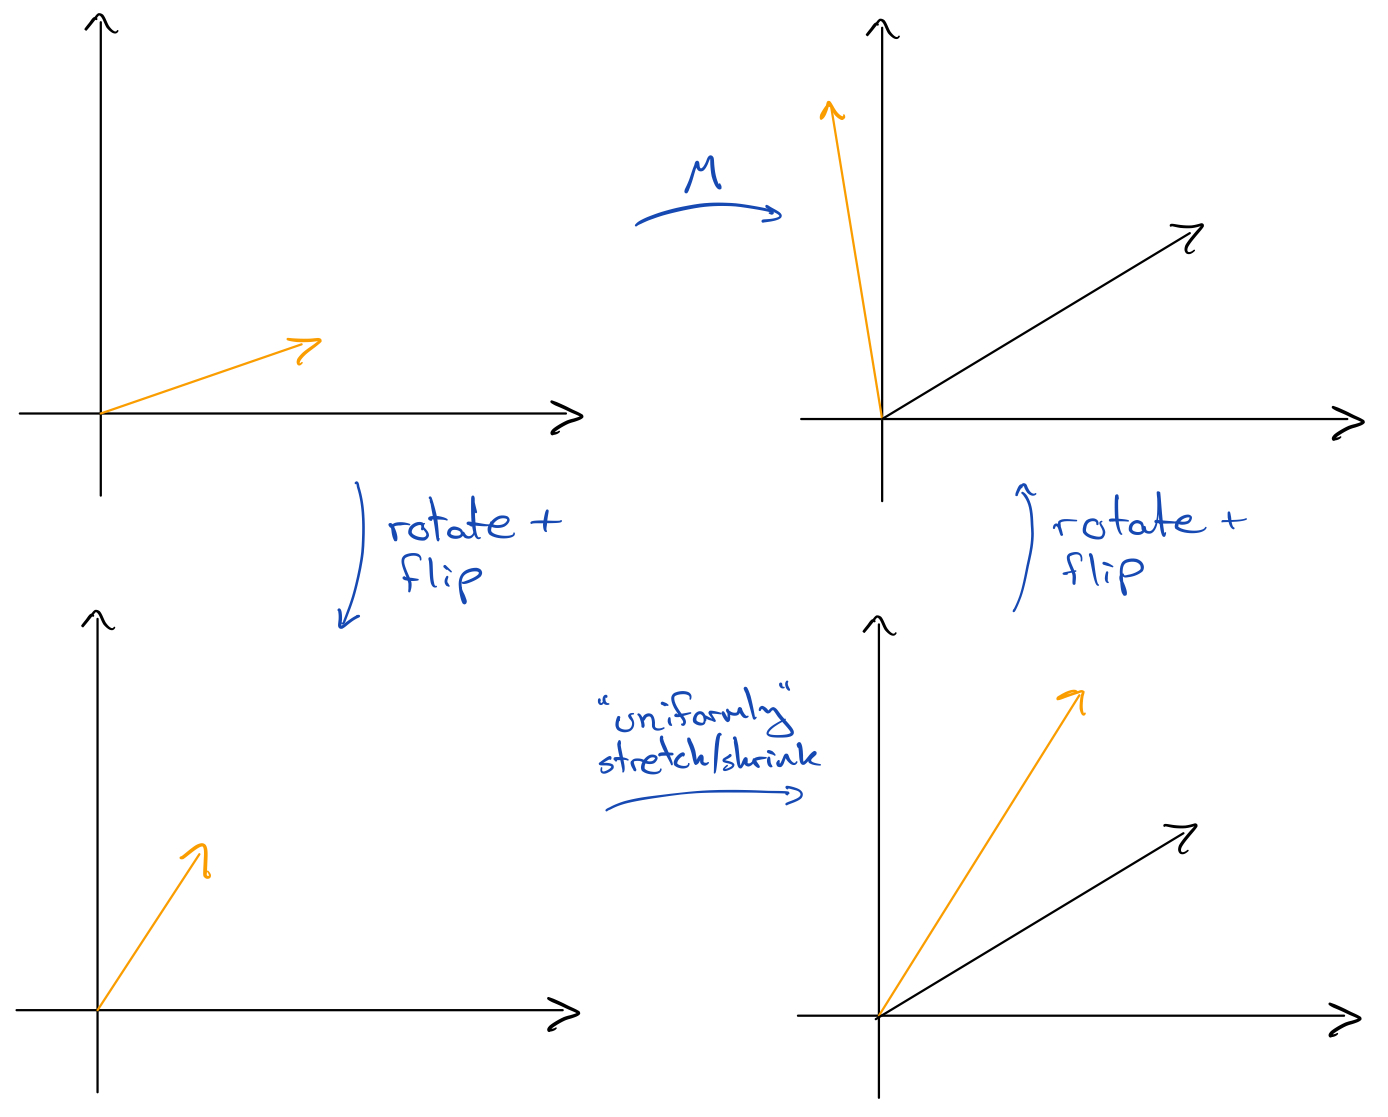
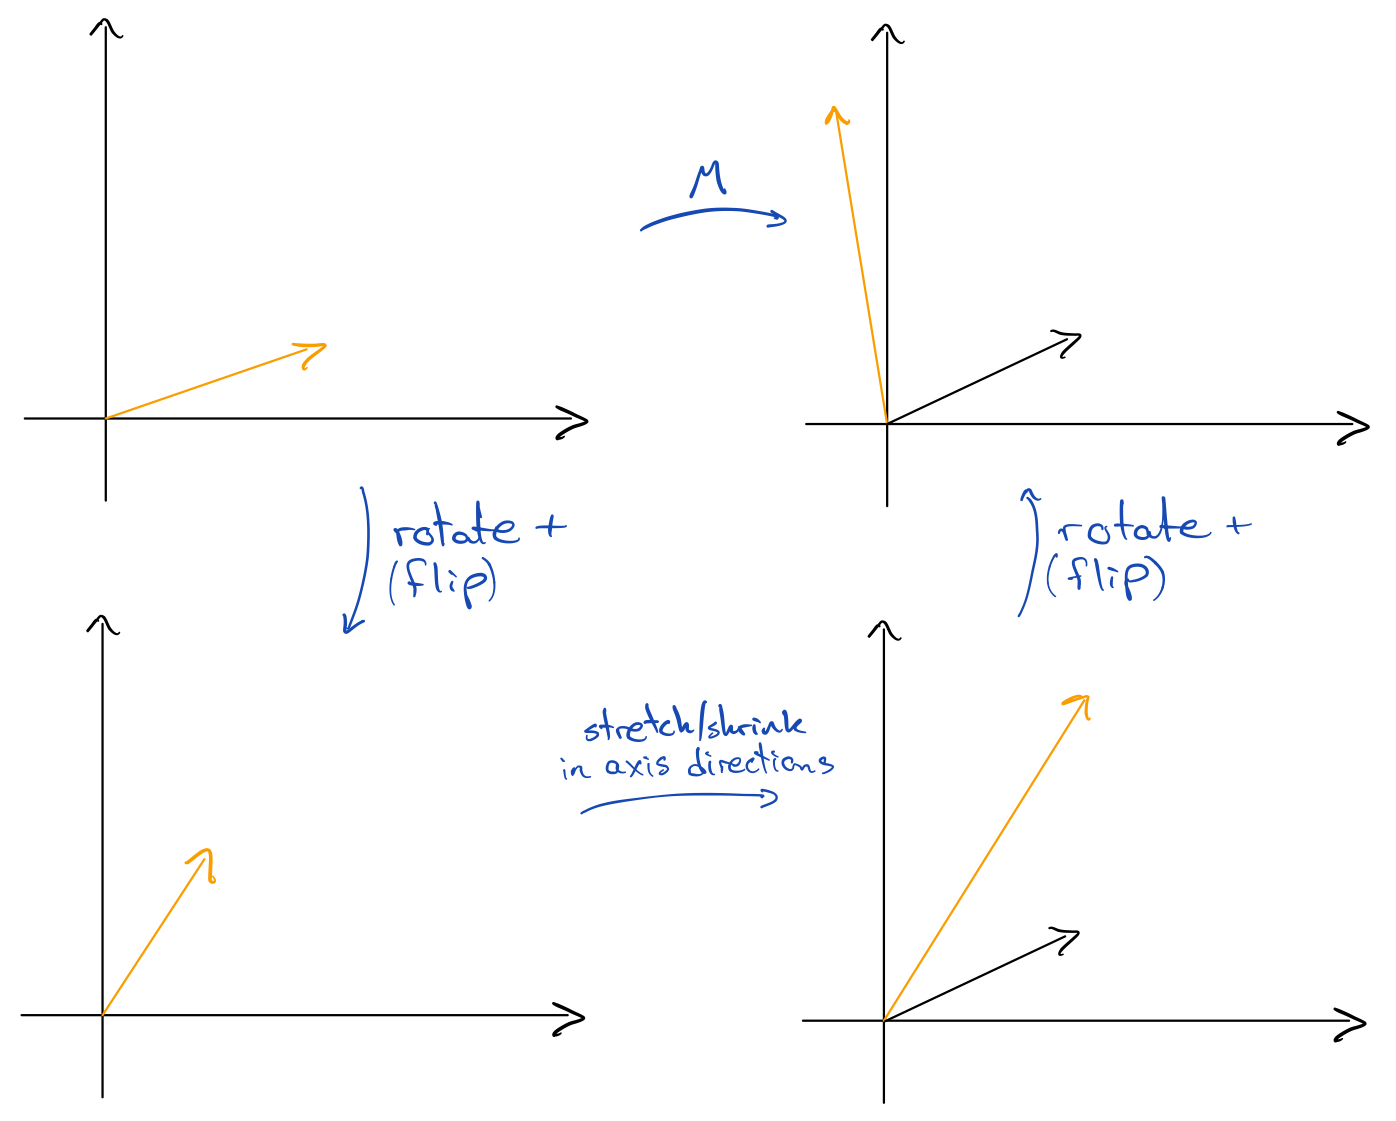
fixed a scaling mistake

diff --git a/_posts/2019-06-12-singular-value-decomposition-in-pictures.md b/_posts/2019-06-12-singular-value-decomposition-in-pictures.md
@@ -27,7 +27,7 @@ To apply the aforementioned idea of breaking into smaller pieces, a way of simpl
 
 The first decomposition that we'll look at, the **eigendecomposition**, does this by isolating a collection of special vectors which are *not rotated* and *stretched/shrunk the same amount in all directions*: our transformation only potentially flips and "uniformly" stretches/shrinks these special ones. Of course this comes with its own cryptic terminology: these special vectors are called **eigenvectors**, and the amount that they are uniformly stretched/shrunk are the **eigenvalues**.
 
-The decomposition then first rotates and potentially flips a given vector, then uniformly stretches/shrinks it and potentially flips it, and rotates and potentially flips it back again:
+The decomposition then first rotates and potentially flips a given vector, then stretches/shrinks it in the axis directions and potentially flips it, and rotates and potentially flips it back again:
 
 {: style="text-align:center"}
 ![eigendecomposition](../img/eigendecomposition.jpg)
@@ -41,22 +41,22 @@ A transformation is **symmetric** if applying it twice cancels out all rotations
 {: style="text-align:center"}
 ![symmetric transformation](../img/symmetric.jpg)
 
-Next, a symmetric transformation is **positive semi-definite** if no vector is flipped. As it's also symmetric this means that any vector which is rotated will have to be rotated back to its starting position after applying the transformation again. In two dimensions this reduces to only allowing scaling. This is still more general than a diagonal transformation however, as we allow scaling in directions different from the axis directions, causing skewness:
+Next, a symmetric transformation is **positive semi-definite** if no vector is flipped. As it's also symmetric this means that any vector which is rotated will have to be rotated back to its starting position after applying the transformation again. In two dimensions this reduces to only allowing stretching/shrinking. This is still more general than a diagonal transformation however, as we allow stretching/shrinking in directions different from the axis directions, causing skewness:
 
 {: style="text-align:center"}
 ![symmetric positive semi-definite transformation](../img/positivesemidefinite.jpg)
 
-In three dimensions (and higher) we can get positive semi-definite transformations that aren't just scalings, see for instance [this video](https://www.youtube.com/watch?v=-PYDcHKPMKk).
+In three dimensions (and higher) we can get positive semi-definite transformations that aren't just stretching/shrinking, see for instance [this video](https://www.youtube.com/watch?v=-PYDcHKPMKk).
 
 Here's the precise statement of the eigendecomposition:
 
 > **Theorem** (Eigendecomposition). Let $M$ be a square matrix which is both symmetric and positive semi-definite. Then there exists an orthogonal matrix $Q$ and a diagonal matrix $\Lambda$ such that $M=Q\Lambda Q^{-1}$.
 
-The generalisation of the eigendecomposition to *all* matrices is then the **singular value decomposition**. Instead of performing the *same* rotation and potential flip before and after the uniform scaling, we allow them to be different.
+The generalisation of the eigendecomposition to *all* matrices is then the **singular value decomposition**. Instead of performing the *same* rotation and potential flip before and after the stretching/shrinking in the axis directions, we allow them to be different.
 
 We therefore isolate some *special vectors* again, where in this case "special" only means that they are "uniformly" stretched/shrunk, i.e. that the stretching/shrinking are equal in all directions. This is *almost* the same thing as the eigenvectors, except that we allow them to be rotated. We call these special vectors **singular vectors**, and the amount that they're stretched/shrunk are the **singular values**.
 
-The decomposition is then saying that any transformation can be split up into a (1) rotation + potential flip, (2) uniform stretching/shrinking and (3) another (potentially different) rotation + potential flip:
+The decomposition is then saying that any transformation can be split up into a (1) rotation + potential flip, (2) stretching/shrinking in the axis directions and (3) another (potentially different) rotation + potential flip. Note that (2) doesn't include flips, in contrast to the eigendecomposition.
 
 {: style="text-align:center"}
 ![singular value decomposition](../img/svd.jpg)
